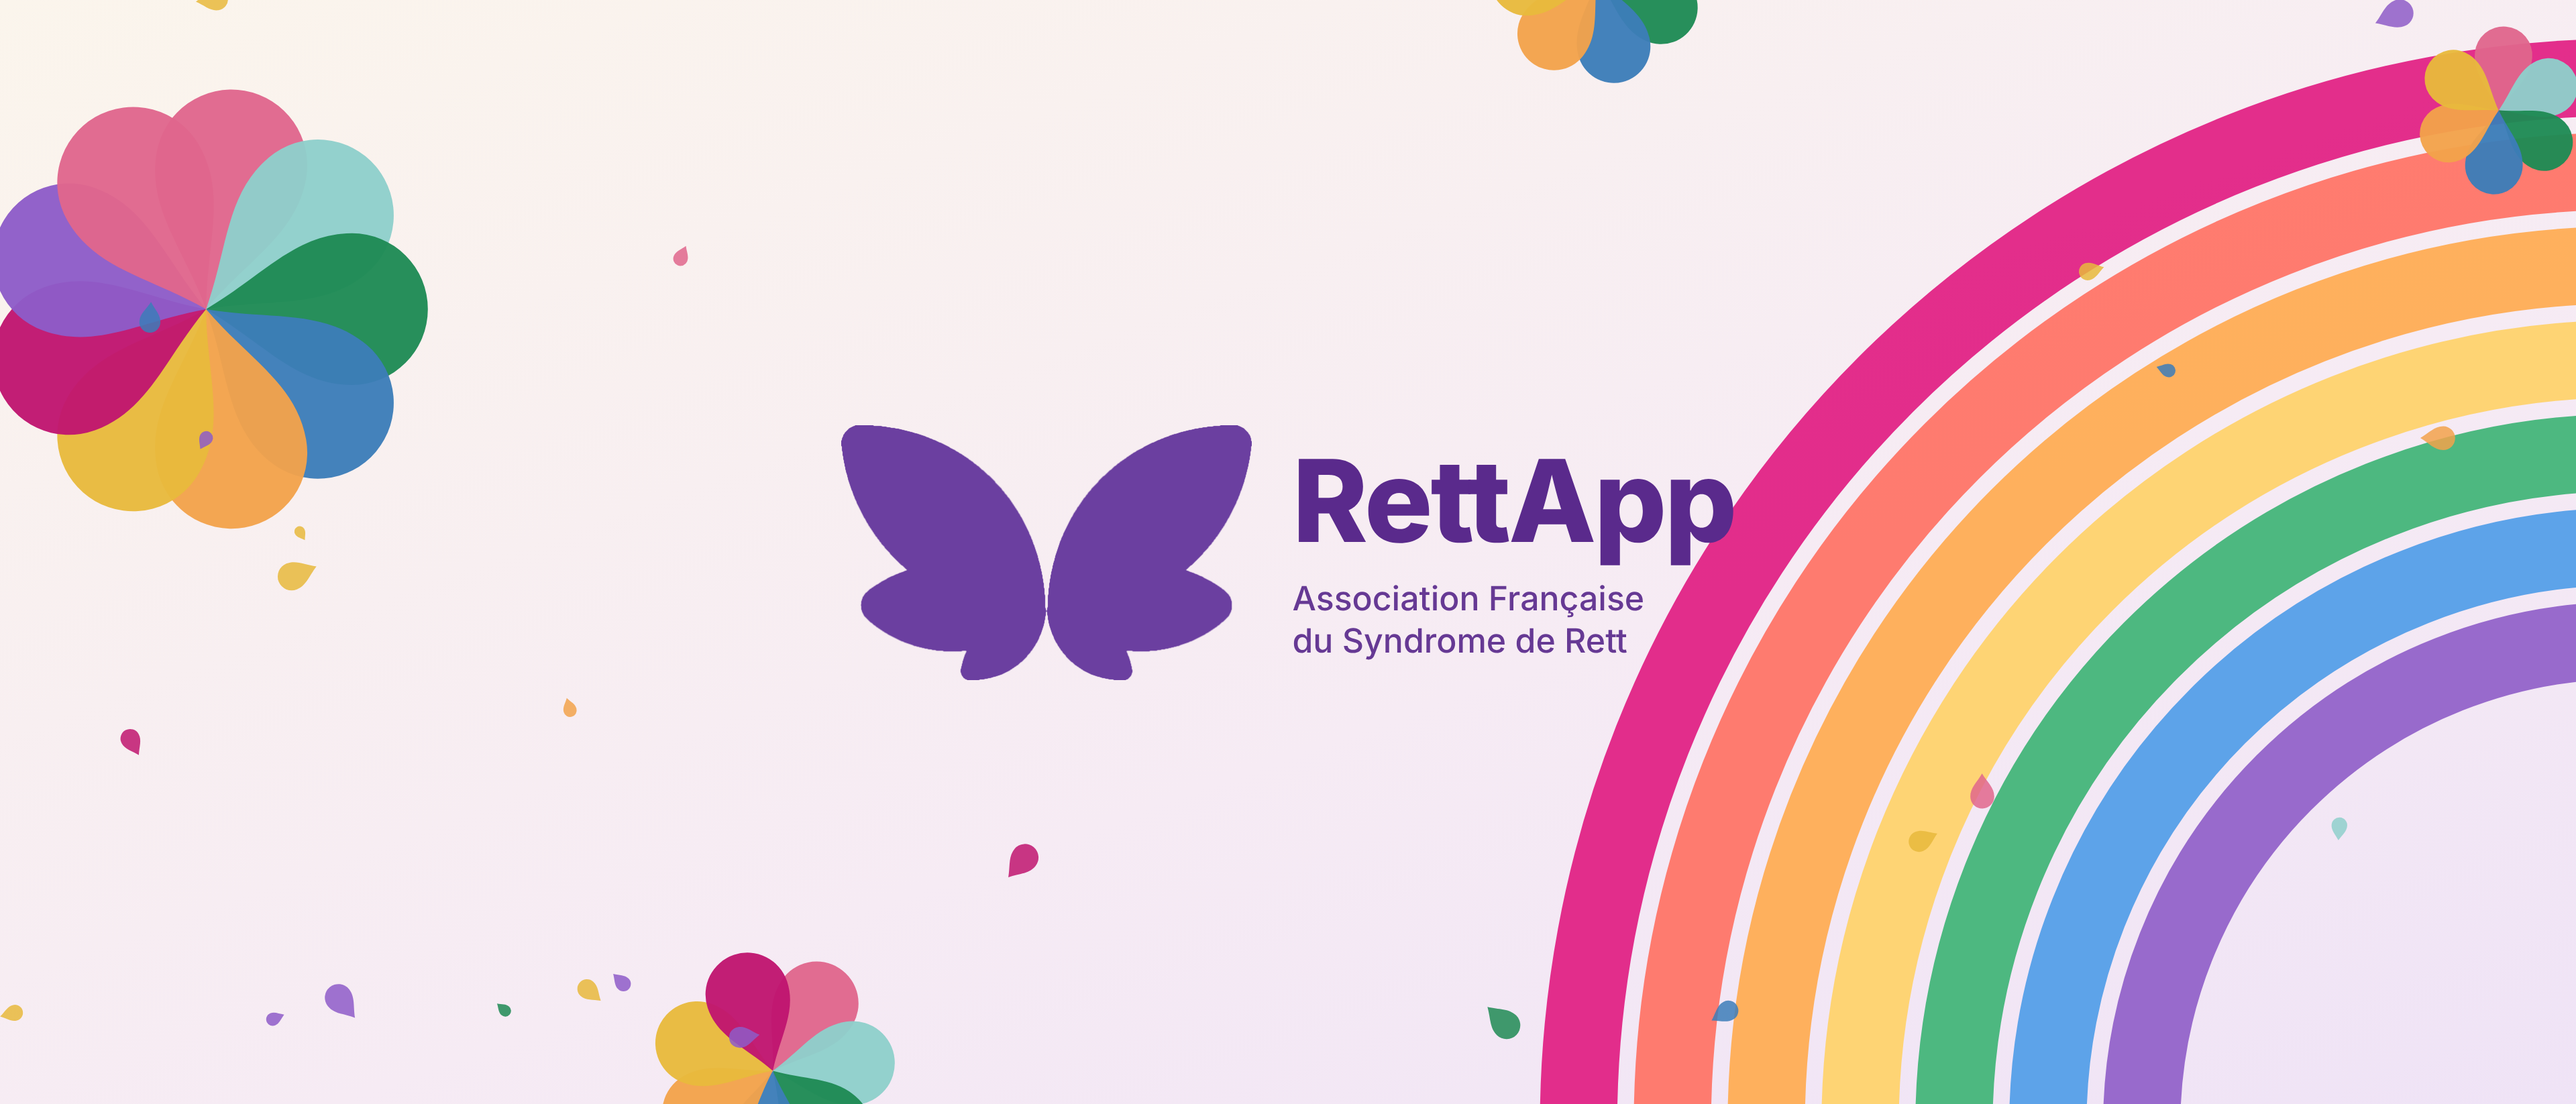
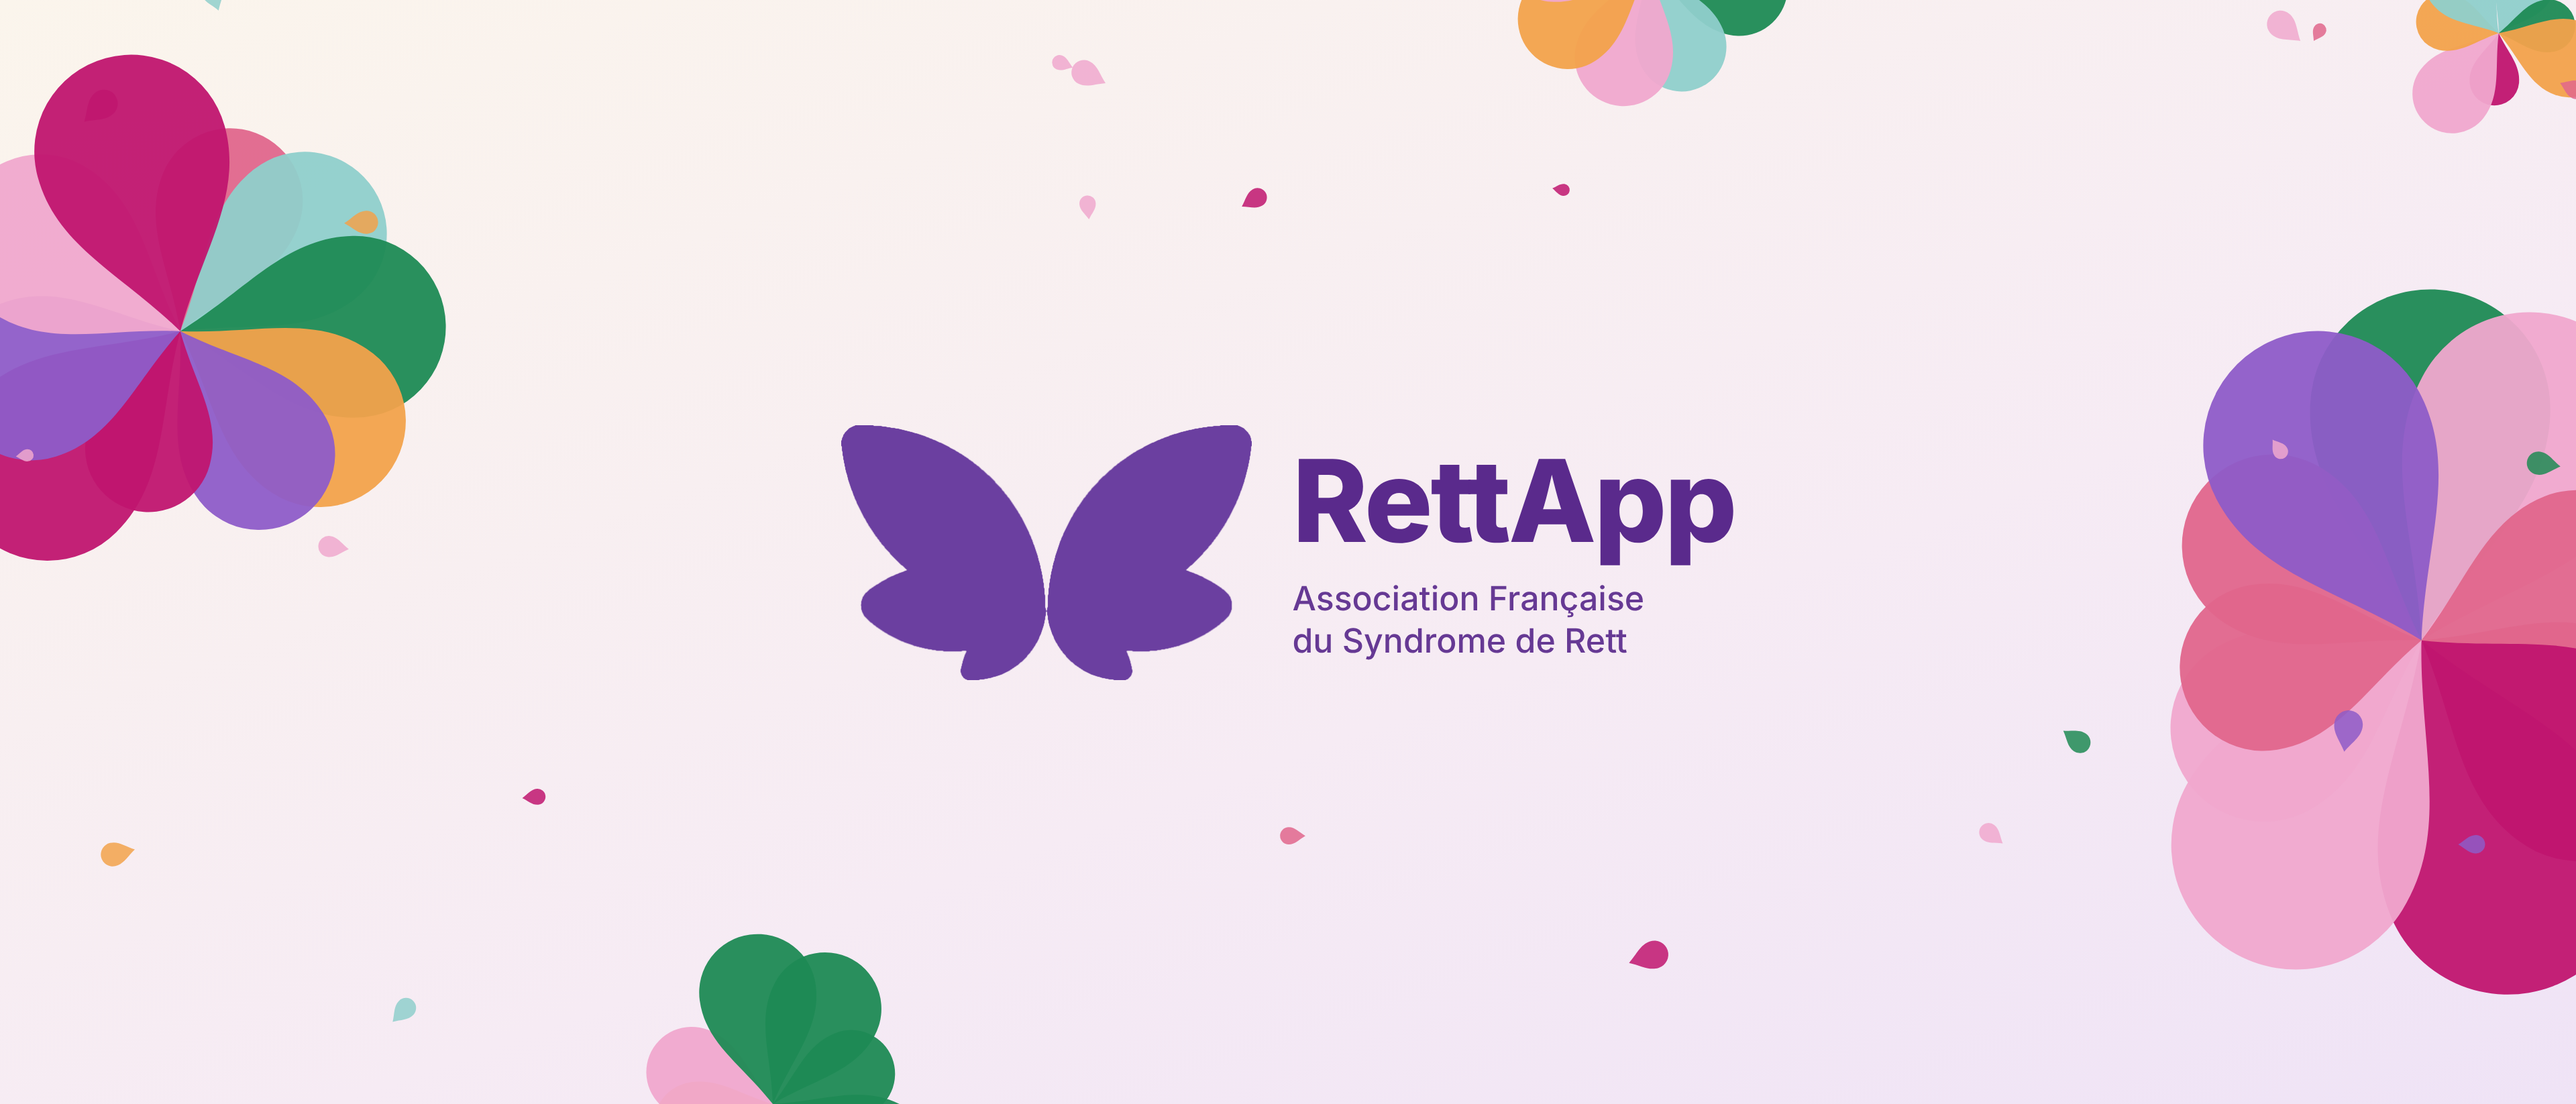
Visuels d'en-tête v2 : retirer l'arc-en-ciel, trop marqué
L'arc-en-ciel à six bandes se lisait comme un symbole étranger à l'association,
et le spectre complet des pétales renforçait cette lecture.

Décision : plus d'arc ; palette sans bleu ni jaune (rose, magenta, lilas,
turquoise, vert, orange) ; pétales de tailles, d'angles et de couleurs tirés au
hasard avec une graine fixe, pour que la composition reste irrégulière sans
changer d'une génération à l'autre.

Écarté : garder l'arc en plus discret, qui restait un arc-en-ciel.

Claude-Session: https://claude.ai/code/session_01Mdfxre13q7K6fnobzzcUi2

diff --git a/docs/APP_STORE_LISTING.md b/docs/APP_STORE_LISTING.md
@@ -65,13 +65,15 @@ Les visuels prêts à déposer sont dans `docs/app-store-assets/` :
 | Résultats de recherche | `resultats-recherche_3840x2560.png` | 3840 × 2560 (3:2) | 2168 × 1030, centrée |
 | Ressource universelle | `universel_5244x2950.png` | 5244 × 2950 (16:9) | 1402 × 962 |
 
-**Seconde proposition (v2), plus colorée** — fichiers `*_v2_*` : pétales multicolores et
-arc-en-ciel (clin d'œil à « Over the Rett'bow »), sur le violet de la charte
+**Seconde proposition (v2), plus colorée** — fichiers `*_v2_*` : fleurs de pétales
+multicolores et irrégulières (dans l'esprit des collections de l'association), sur le
+violet de la charte
 (`en-tete_v2_violet`) ou sur fond crème (`en-tete_v2_creme`). Le visuel de recherche
 `resultats-recherche_v2_zoom` est un **zoom sur l'écran réel** du Journal, comme Apple le
-suggère pour les résultats de recherche. Les deux collections n'ont pas pu être
-consultées : la palette vient du visuel « MERCI ! » des Actualités, pas des collections
-elles-mêmes. Le zoom est tiré d'une capture de 920 px de large, donc légèrement flou :
+suggère pour les résultats de recherche. **Pas d'arc-en-ciel, ni de spectre complet** : une première version en avait un, écartée
+le 14 novembre parce qu'elle se lisait comme un symbole étranger à l'association ; la
+palette n'a ni bleu ni jaune. Les deux collections n'ont pas pu être consultées : la
+palette vient du visuel « MERCI ! » des Actualités, pas des collections elles-mêmes. Le zoom est tiré d'une capture de 920 px de large, donc légèrement flou :
 à refaire depuis une capture native de l'iPhone, avec un profil sans prénom.
 
 Première proposition (v1) : dégradé et papillon de l'icône, nom, « Association Française du Syndrome de Rett ».
